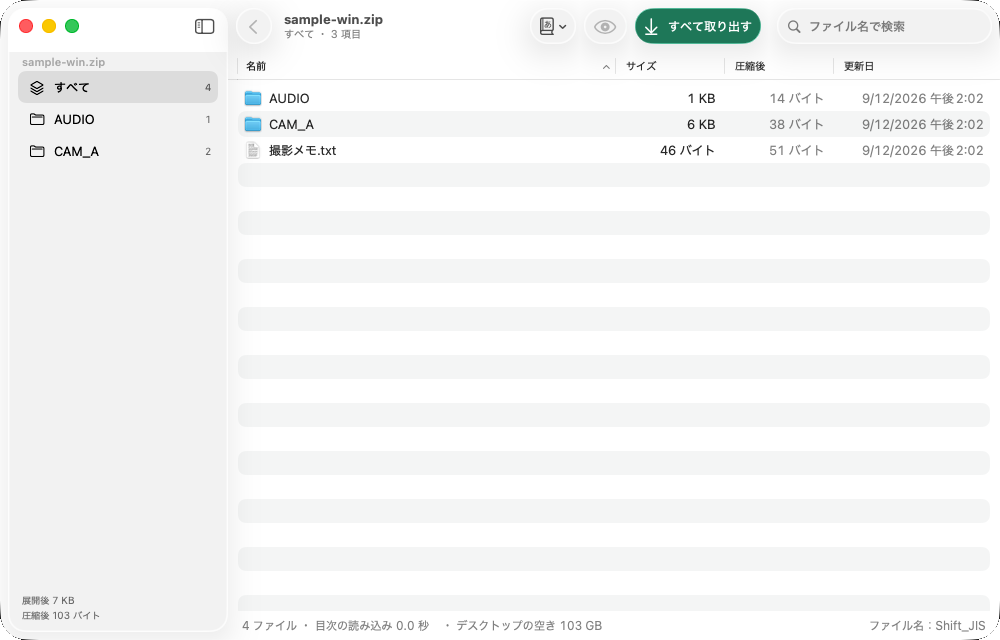
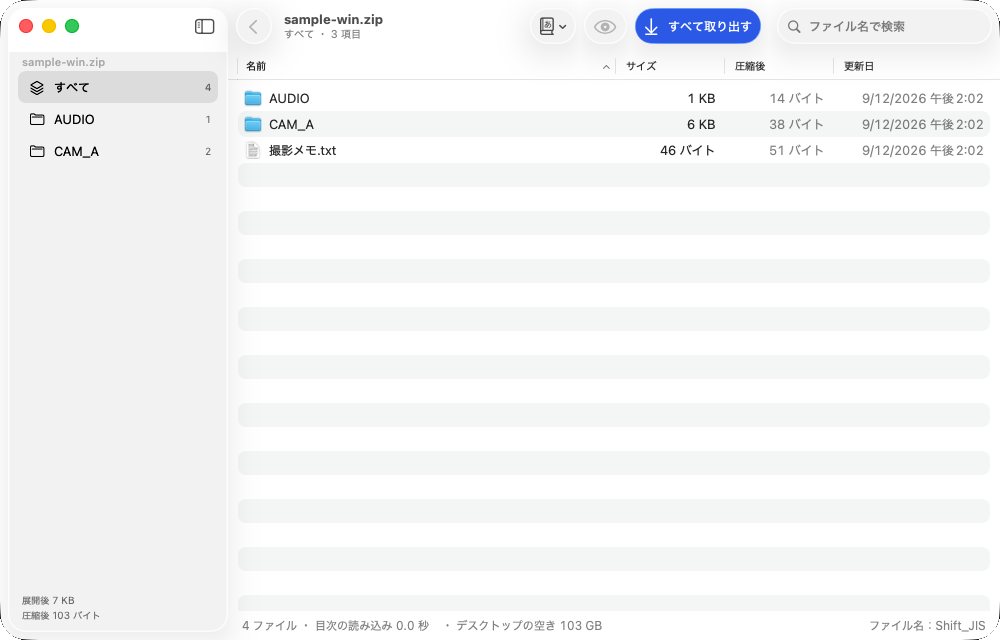
配布ページとREADMEの画面写真を新しい色に更新
Claude-Session: https://claude.ai/code/session_018i94EypDSSPw7vxym6sX9t

Changed region(s): [[0.62, 0.0, 0.775, 0.0938]]

diff --git a/site/src/i18n/text.ts b/site/src/i18n/text.ts
@@ -20,7 +20,6 @@ export const text = {
       '日本語・英語',
     ],
     shot: 'screen-ja.png',
-    shotDark: 'screen-ja-dark.png',
     shotAlt: '中身を見る窓。Windowsで作ったzipの日本語のファイル名が正しく表示されている',
     formatsTitle: '解凍できる形式',
     createTitle: '作れる形式',
@@ -56,7 +55,6 @@ export const text = {
       'Japanese and English',
     ],
     shot: 'screen-en.png',
-    shotDark: 'screen-en-dark.png',
     shotAlt: 'The browser window showing a ZIP made on Japanese Windows, with its file names displayed correctly',
     formatsTitle: 'Extracts',
     createTitle: 'Creates',
